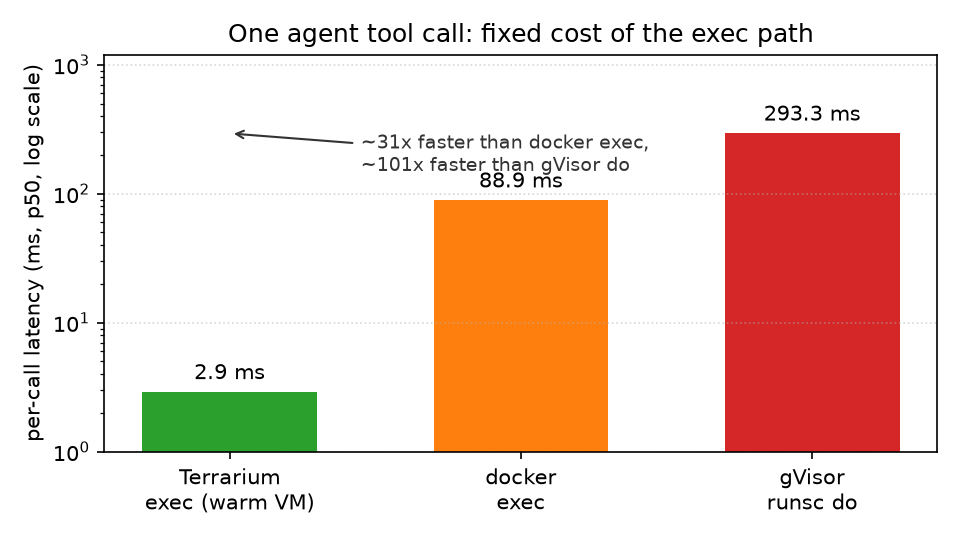
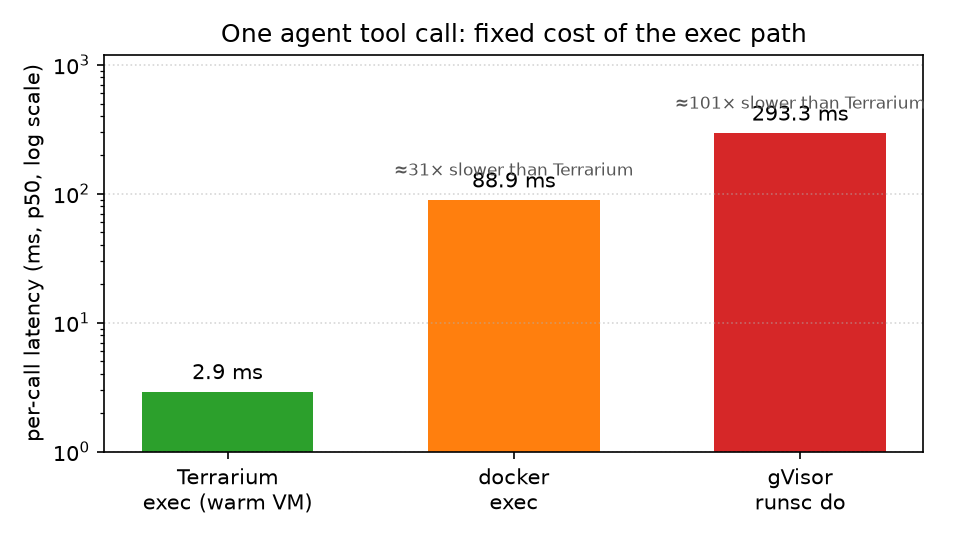
perf(charts): exec-path figure — label multiples on bars, drop arrow annotation

diff --git a/docs/scripts/plot_performance.py b/docs/scripts/plot_performance.py
@@ -64,12 +64,12 @@ def fig_exec_path() -> None:
     for b, v in zip(bars, ms):
         ax.text(b.get_x() + b.get_width() / 2, v * 1.15, f"{v:.1f} ms",
                 ha="center", va="bottom", fontsize=10)
-    ax.annotate(
-        "~31x faster than docker exec,\n~101x faster than gVisor do",
-        xy=(0, 293.3), xytext=(0.45, 150),
-        fontsize=9, color="#333",
-        arrowprops=dict(arrowstyle="->", color="#333"),
-    )
+    # Multiples vs Terrarium, labeled directly on the comparison bars.
+    for b, v, mult in zip(bars, ms, [1.0, 88.9 / 2.9, 293.3 / 2.9]):
+        if mult > 1.0:
+            ax.text(b.get_x() + b.get_width() / 2, v * 1.45,
+                    f"\u2248{mult:.0f}\u00d7 slower than Terrarium",
+                    ha="center", va="bottom", fontsize=8, color="#555")
     ax.set_ylim(1, 1200)
     ax.grid(axis="y", linestyle=":", alpha=0.5)
     fig.tight_layout()
